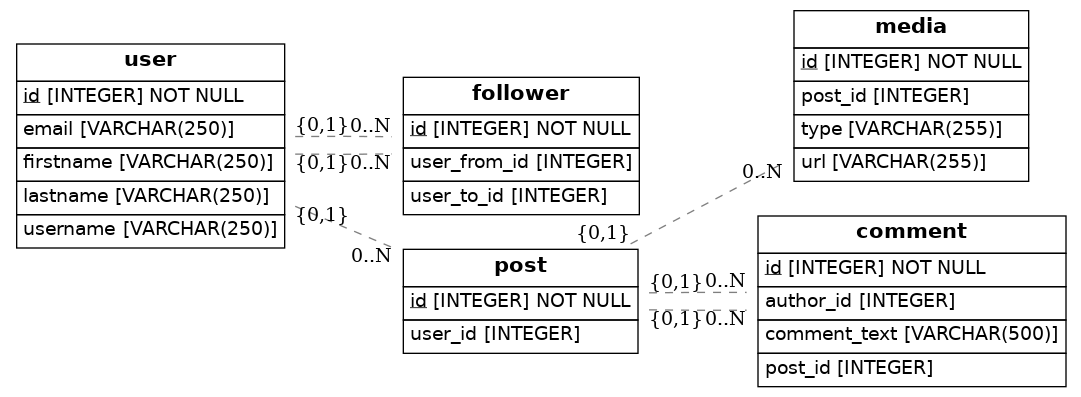
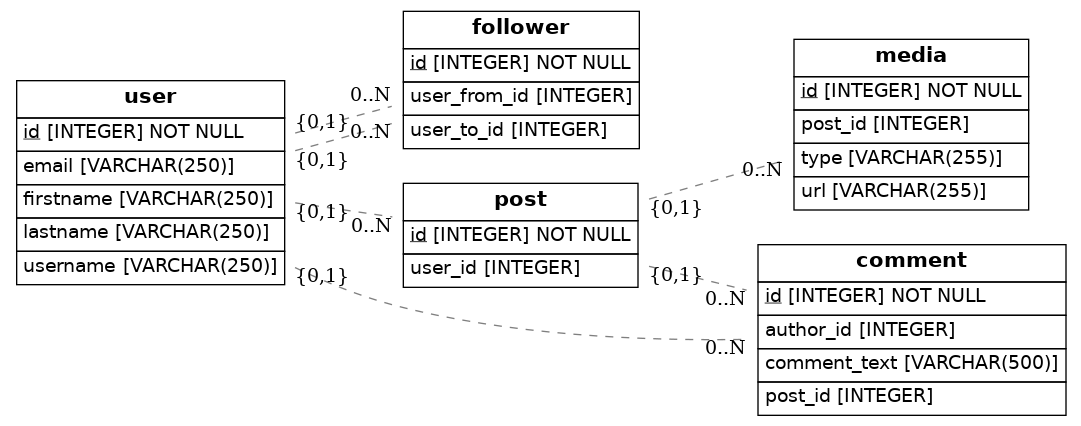
final commit

Changed region(s): [[0.0, 0.0, 1.0, 0.9975], [0.6716, 0.0, 0.9463, 0.5139]]

diff --git a/src/models.py b/src/models.py
@@ -12,10 +12,10 @@ class User(Base):
     # Here we define columns for the table address.
     # Notice that each column is also a normal Python instance attribute.
     id = Column(Integer, primary_key=True)
-    username = Column(String(250))
-    firstname = Column(String(250))
-    lastname = Column(String(250))
-    email = Column(String(250))
+    username = Column(String(250), nullable='false')
+    firstname = Column(String(250), nullable='false')
+    lastname = Column(String(250), nullable='false')
+    email = Column(String(250), nullable='false')
 
     def to_dict(self):
         return {}
@@ -65,7 +65,7 @@ class Comment(Base):
     # Notice that each column is also a normal Python instance attribute.
     id = Column(Integer, primary_key=True)
     comment_text = Column(String(500))
-    author_id = Column(Integer,ForeignKey('post.id'))
+    author_id = Column(Integer,ForeignKey('user.id'))
     post_id = Column(Integer,ForeignKey('post.id'))
     post = relationship(User,Post)
 
